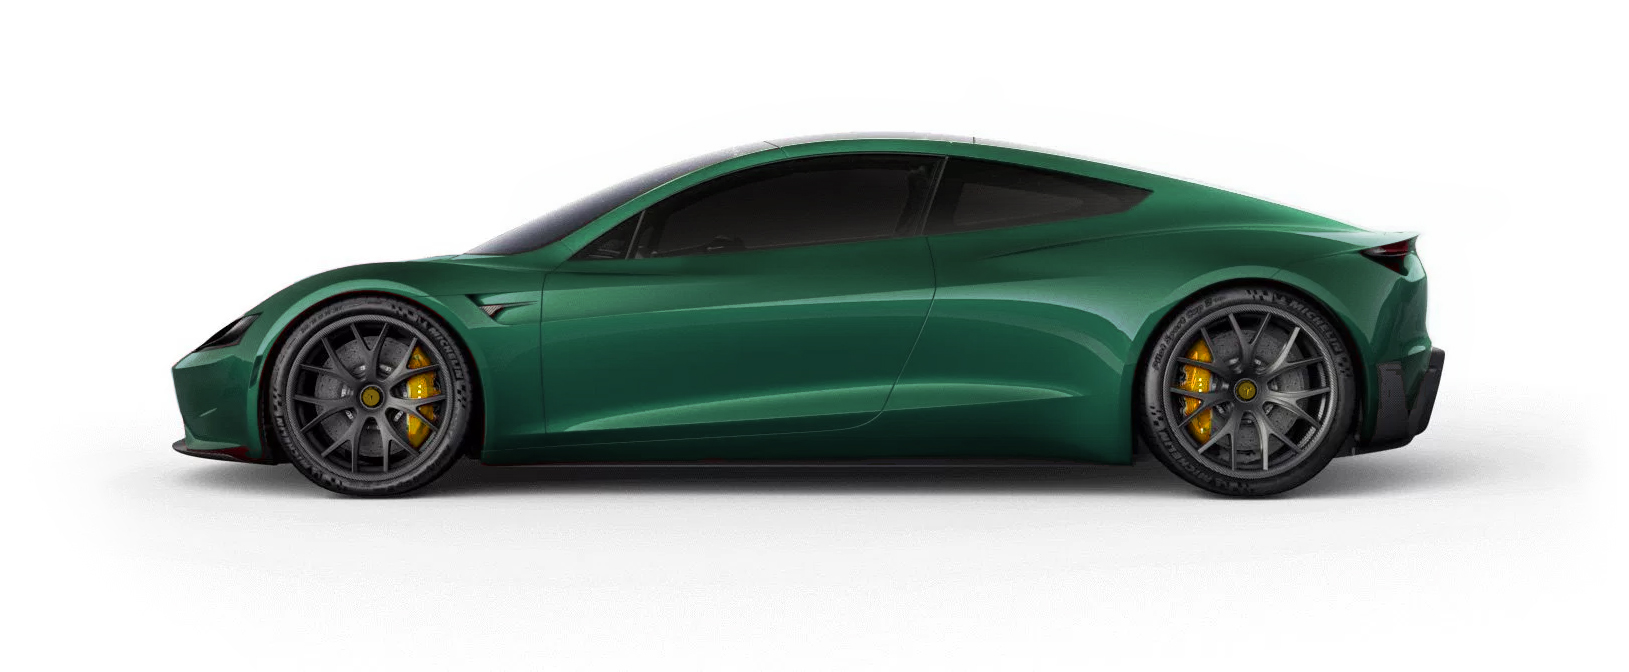
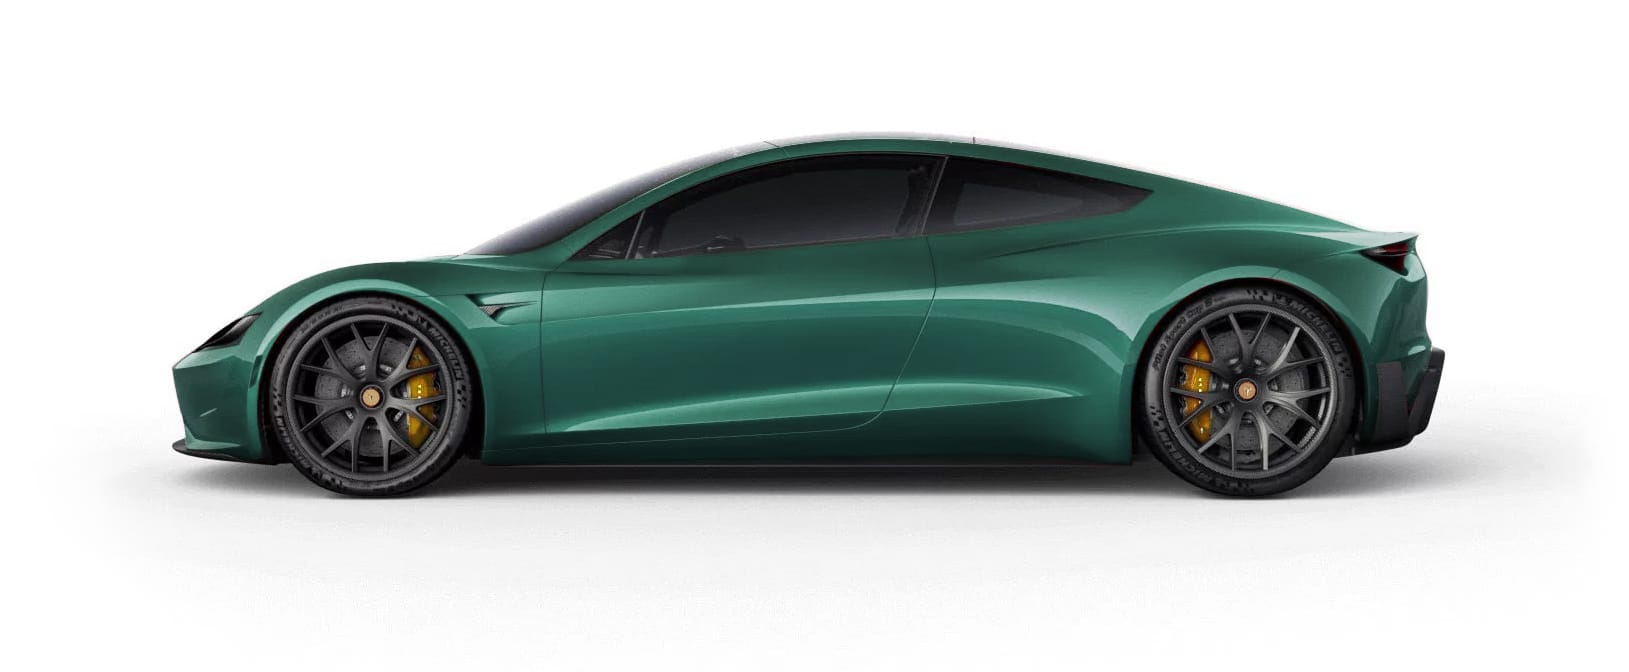
New colors

diff --git a/index.html b/index.html
@@ -15,7 +15,7 @@
 <!--Header-->
 <div class="header">
   <img class="logo" src="img/tesla-logo.png" alt="Tesla Colors">
-  <p class="note"> just for fun and learning &#x1F601;<p>
+
 </div>
 
 <!--Title-->
@@ -33,7 +33,7 @@
   </div>
 
   <div class="mySlides fade">
-    <img src="img/media-noche.jpg" style="width:100%" alt="tesla roadster Silver Metallic">
+    <img src="img/midnight.jpg" style="width:100%" alt="tesla roadster Silver Metallic">
     <div class="text">Midnight Silver Metallic</div>
   </div>
 
@@ -48,7 +48,7 @@
   </div>
 
   <div class="mySlides fade">
-    <img src="img/grey.jpg" style="width:100%" alt="tesla roadster Silver Metallic">
+    <img src="img/silver.jpg" style="width:100%" alt="tesla roadster Silver Metallic">
     <div class="text">Silver Metallic</div>
   </div>
 
@@ -63,18 +63,23 @@
   </div>
 
   <div class="mySlides fade">
-    <img src="img/orange.jpg" style="width:100%" alt="tesla roadster Orange Multi-Coat">
-    <div class="text">Orange Multi-Coat</div>
+    <img src="img/very-orange.jpg" style="width:100%" alt="tesla roadster Yellow Multi-Coat">
+    <div class="text">Very Orange Multi-Coat</div>
   </div>
 
   <div class="mySlides fade">
-    <img src="img/yellow.jpg" style="width:100%" alt="tesla roadster Yellow Multi-Coat">
-    <div class="text">Yellow Multi-Coat</div>
+    <img src="img/brilliant-yellow.jpg" style="width:100%" alt="tesla roadster Yellow Multi-Coat">
+    <div class="text">Brilliant Yellow Multi-Coat</div>
   </div>
 
   <div class="mySlides fade">
-    <img src="img/white-lotus.jpg" style="width:100%" alt="tesla roadster Orange Multi-Coat">
-    <div class="text">White Lotus Multi-Coat</div>
+    <img src="img/glacier-blue.jpg" style="width:100%" alt="tesla roadster Yellow Multi-Coat">
+    <div class="text">Glacier Blue Multi-Coat</div>
+  </div>
+
+  <div class="mySlides fade">
+    <img src="img/electric-blue.jpg" style="width:100%" alt="tesla roadster Yellow Multi-Coat">
+    <div class="text">Electric Blue Multi-Coat</div>
   </div>
 
   <div class="mySlides fade">
@@ -83,9 +88,9 @@
   </div>
 </div>
 <br>
-
+<!--<TODO iframe src="https://yvoschaap.com/producthunt/counter.html#href=https%3A%2F%2Fwww.producthunt.com%2Fposts%2Flandbot-2&layout=tall" width="56" height="65" scrolling="no" frameborder="0" allowtransparency="true"></iframe>-->
 <!--Color picker-->
-<div style="text-align:center">
+<div class="color-picker">
   <span class="dot solid-black" onclick="currentSlide(1)"></span>
   <span class="dot midnight-silver" onclick="currentSlide(2)"></span>
   <span class="dot obsidian-black" onclick="currentSlide(3)"></span>
@@ -95,10 +100,20 @@
   <span class="dot red" onclick="currentSlide(7)"></span>
   <span class="dot orange" onclick="currentSlide(8)"></span>
   <span class="dot yellow" onclick="currentSlide(9)"></span>
-  <span class="dot white-lotus" onclick="currentSlide(10)"></span>
-  <span class="dot green-lotus" onclick="currentSlide(11)"></span>
-</div>
+  <span class="dot glacier-blue" onclick="currentSlide(10)"></span>
+  <span class="dot electric-blue" onclick="currentSlide(11)"></span>
+  <span class="dot green-lotus" onclick="currentSlide(12)"></span>
 
+</div>
+<div style="text-align: center; font-size: 12px; max-widht: 320px;">
+  <pre>I was curious to see what the new roadster looks like in different colors. And it's always good to practice code and photoshop&#x1F601;</pre>
+
+  <div style="display: inline;">
+    <pre>code in <a href="">github</a> |  more in <a href="">behance</a></pre>
+
+
+
+</div>
 <!--JS-->
 <script src="js/app.js"></script>
 </body>

diff --git a/css/main.css b/css/main.css
@@ -22,6 +22,8 @@ body {
 .title{
   text-align: center;
   color: #333333;
+  -webkit-filter: grayscale(100%); /* Safari 6.0 - 9.0 */
+  filter: saturate(50%);
 }
 
 h1{
@@ -45,7 +47,7 @@ h2{
     margin-top: 5px;
     line-height: 1;
     color: #f35626;
-    background-image: -webkit-linear-gradient(92deg,#000000,#AF233E);
+    background-image: -webkit-linear-gradient(74deg,#ff0000,#AF233E);
     -webkit-background-clip: text;
     -webkit-text-fill-color: transparent;
     -webkit-animation: hue 1s infinite linear;
@@ -83,6 +85,11 @@ h2{
 }
 
 /* Color picker */
+.color-picker{
+  margin: 0px 10px 60px 10px;
+  text-align: center;
+}
+
 .dot {
   cursor: pointer;
   height: 35px;
@@ -100,11 +107,12 @@ h2{
 .deep-blue{background-color: #212252}
 .silver{background-color: #A8A1A2}
 .white{background-color: #ECEBEC}
-.red{background-color: #AF233E; margin-right: 30px;}
-.orange{background-color: #D34F23}
-.yellow{background-color: #F8A00C}
-.white-lotus{background-color: #E9E8E9; border-bottom: 3px solid #f8a00d;}
-.green-lotus{background-color: #2A5842; border-bottom: 3px solid #f8a00d;}
+.red{background-color: #c31130; margin-right: 30px;}
+.orange{background-color: #F68B28}
+.yellow{background-color: #FBB842}
+.glacier-blue{background-color: #BBCBD0}
+.electric-blue{background-color: #0F93DA}
+.green-lotus{background-color: #3d7866; border-bottom: 3px solid #f8a00d;}
 .active, .dot:hover {
   box-shadow: 0 3px 6px rgba(0, 0, 0, 0.08), 0 3px 6px rgba(0, 0, 0, 0.15);
   margin-bottom: 1px;
